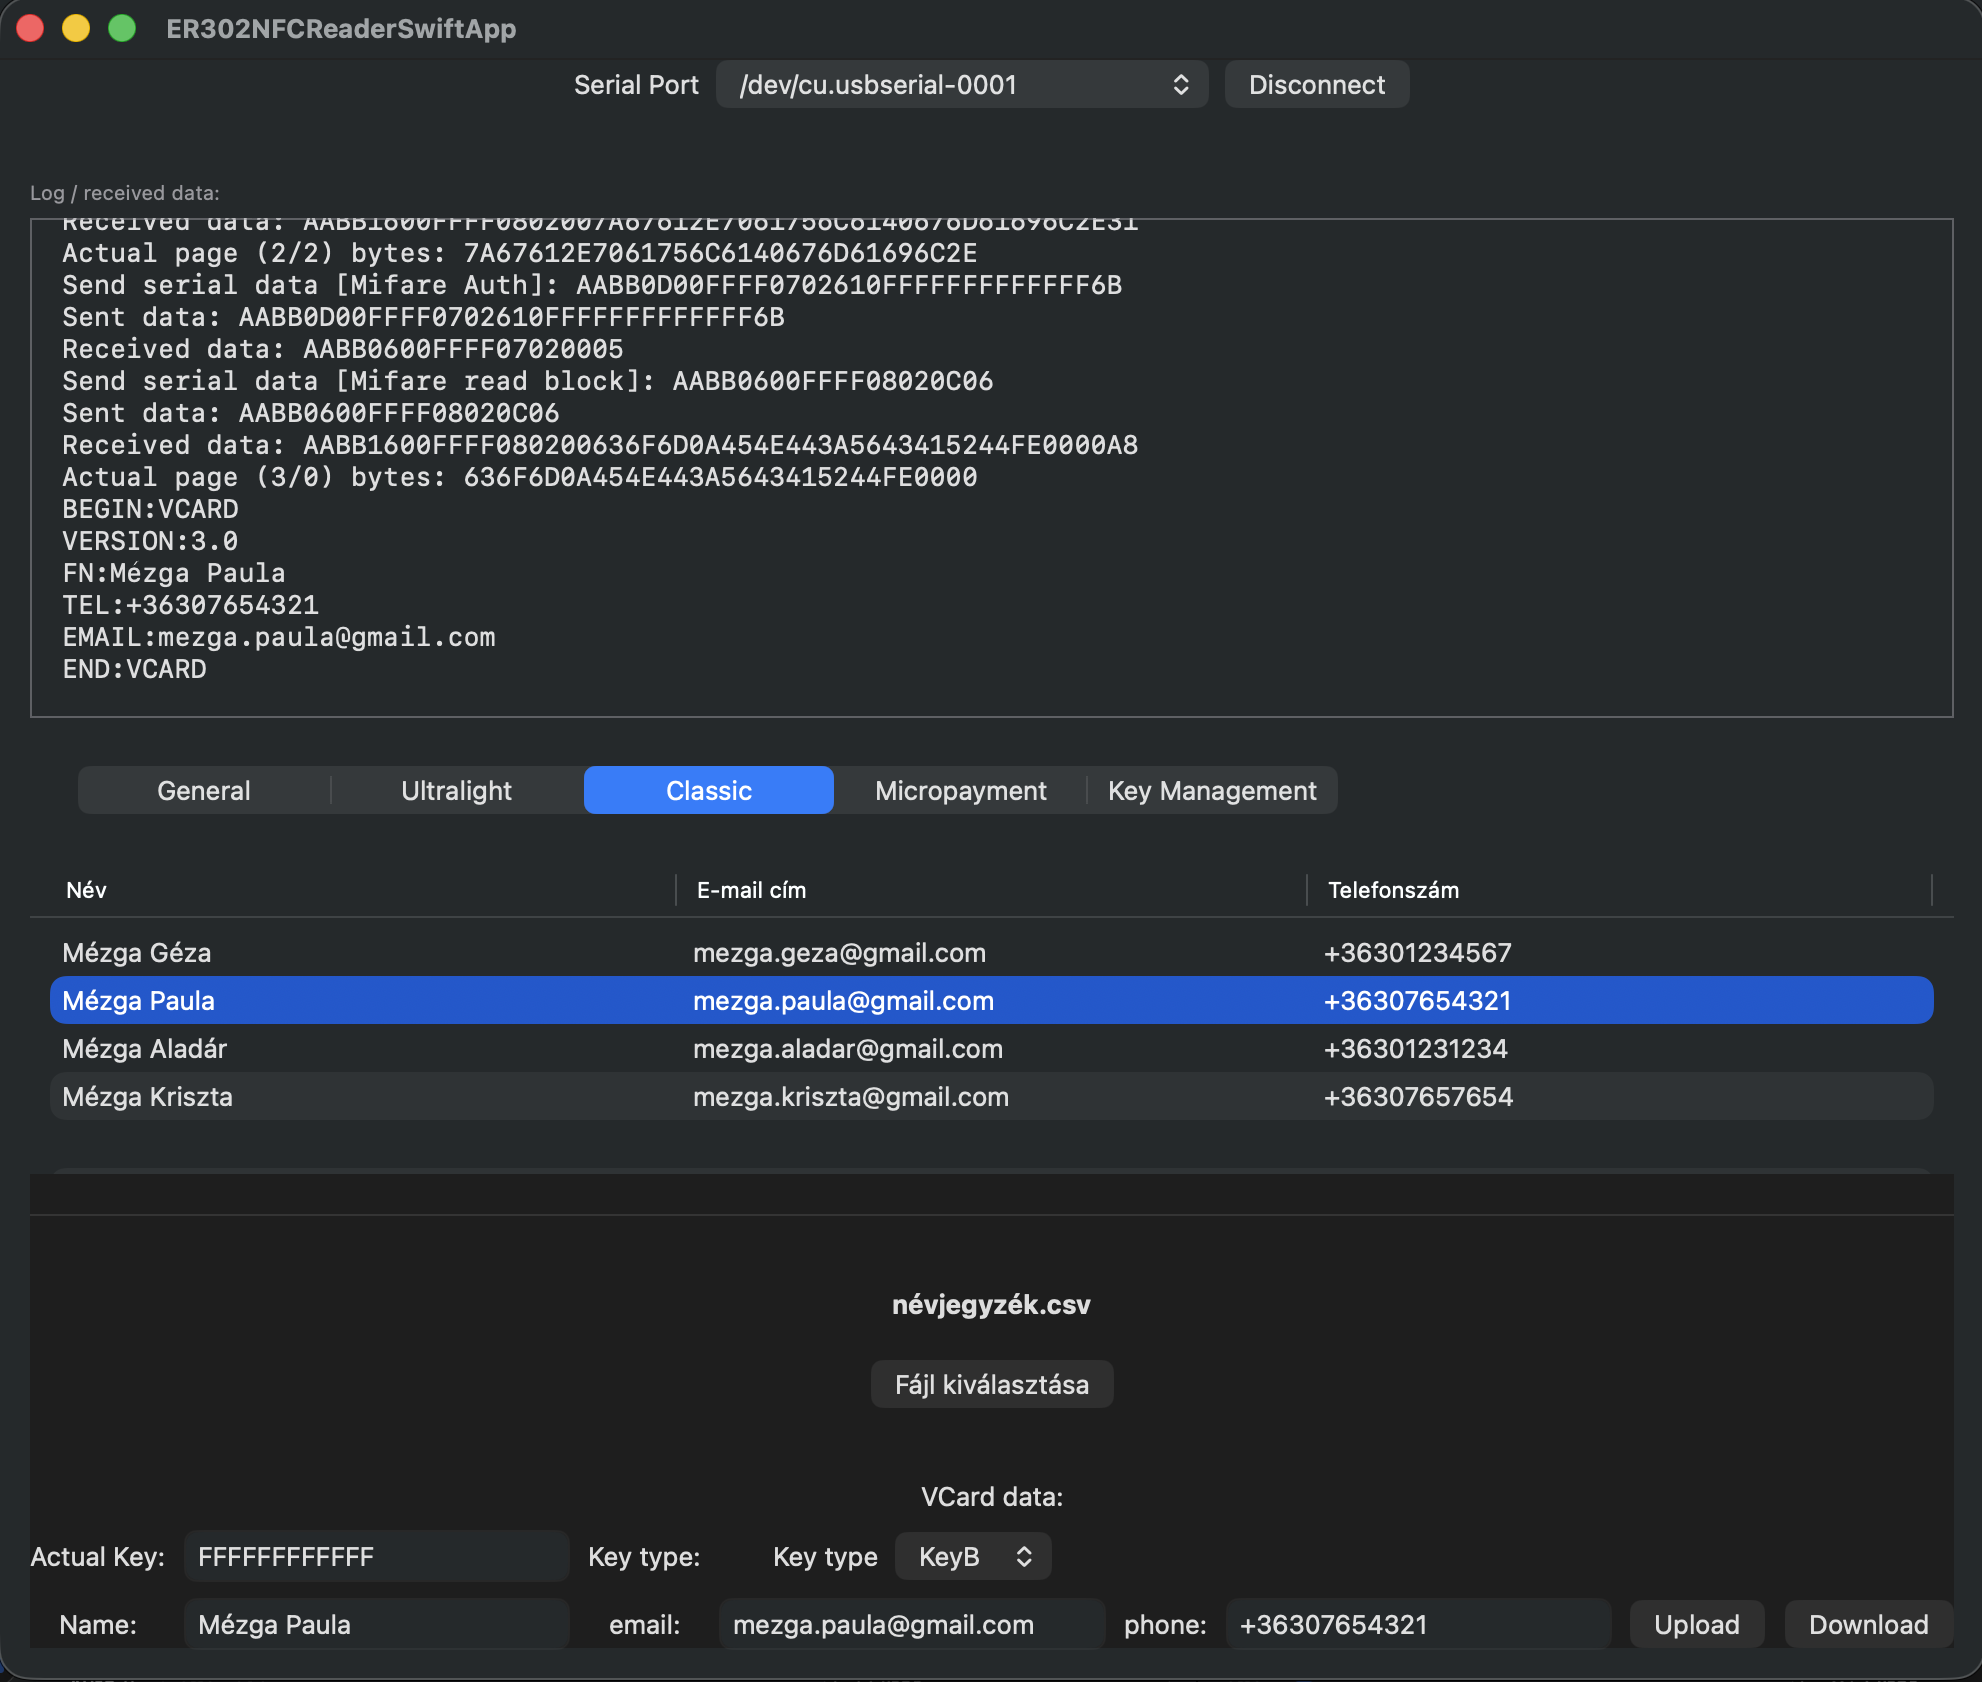
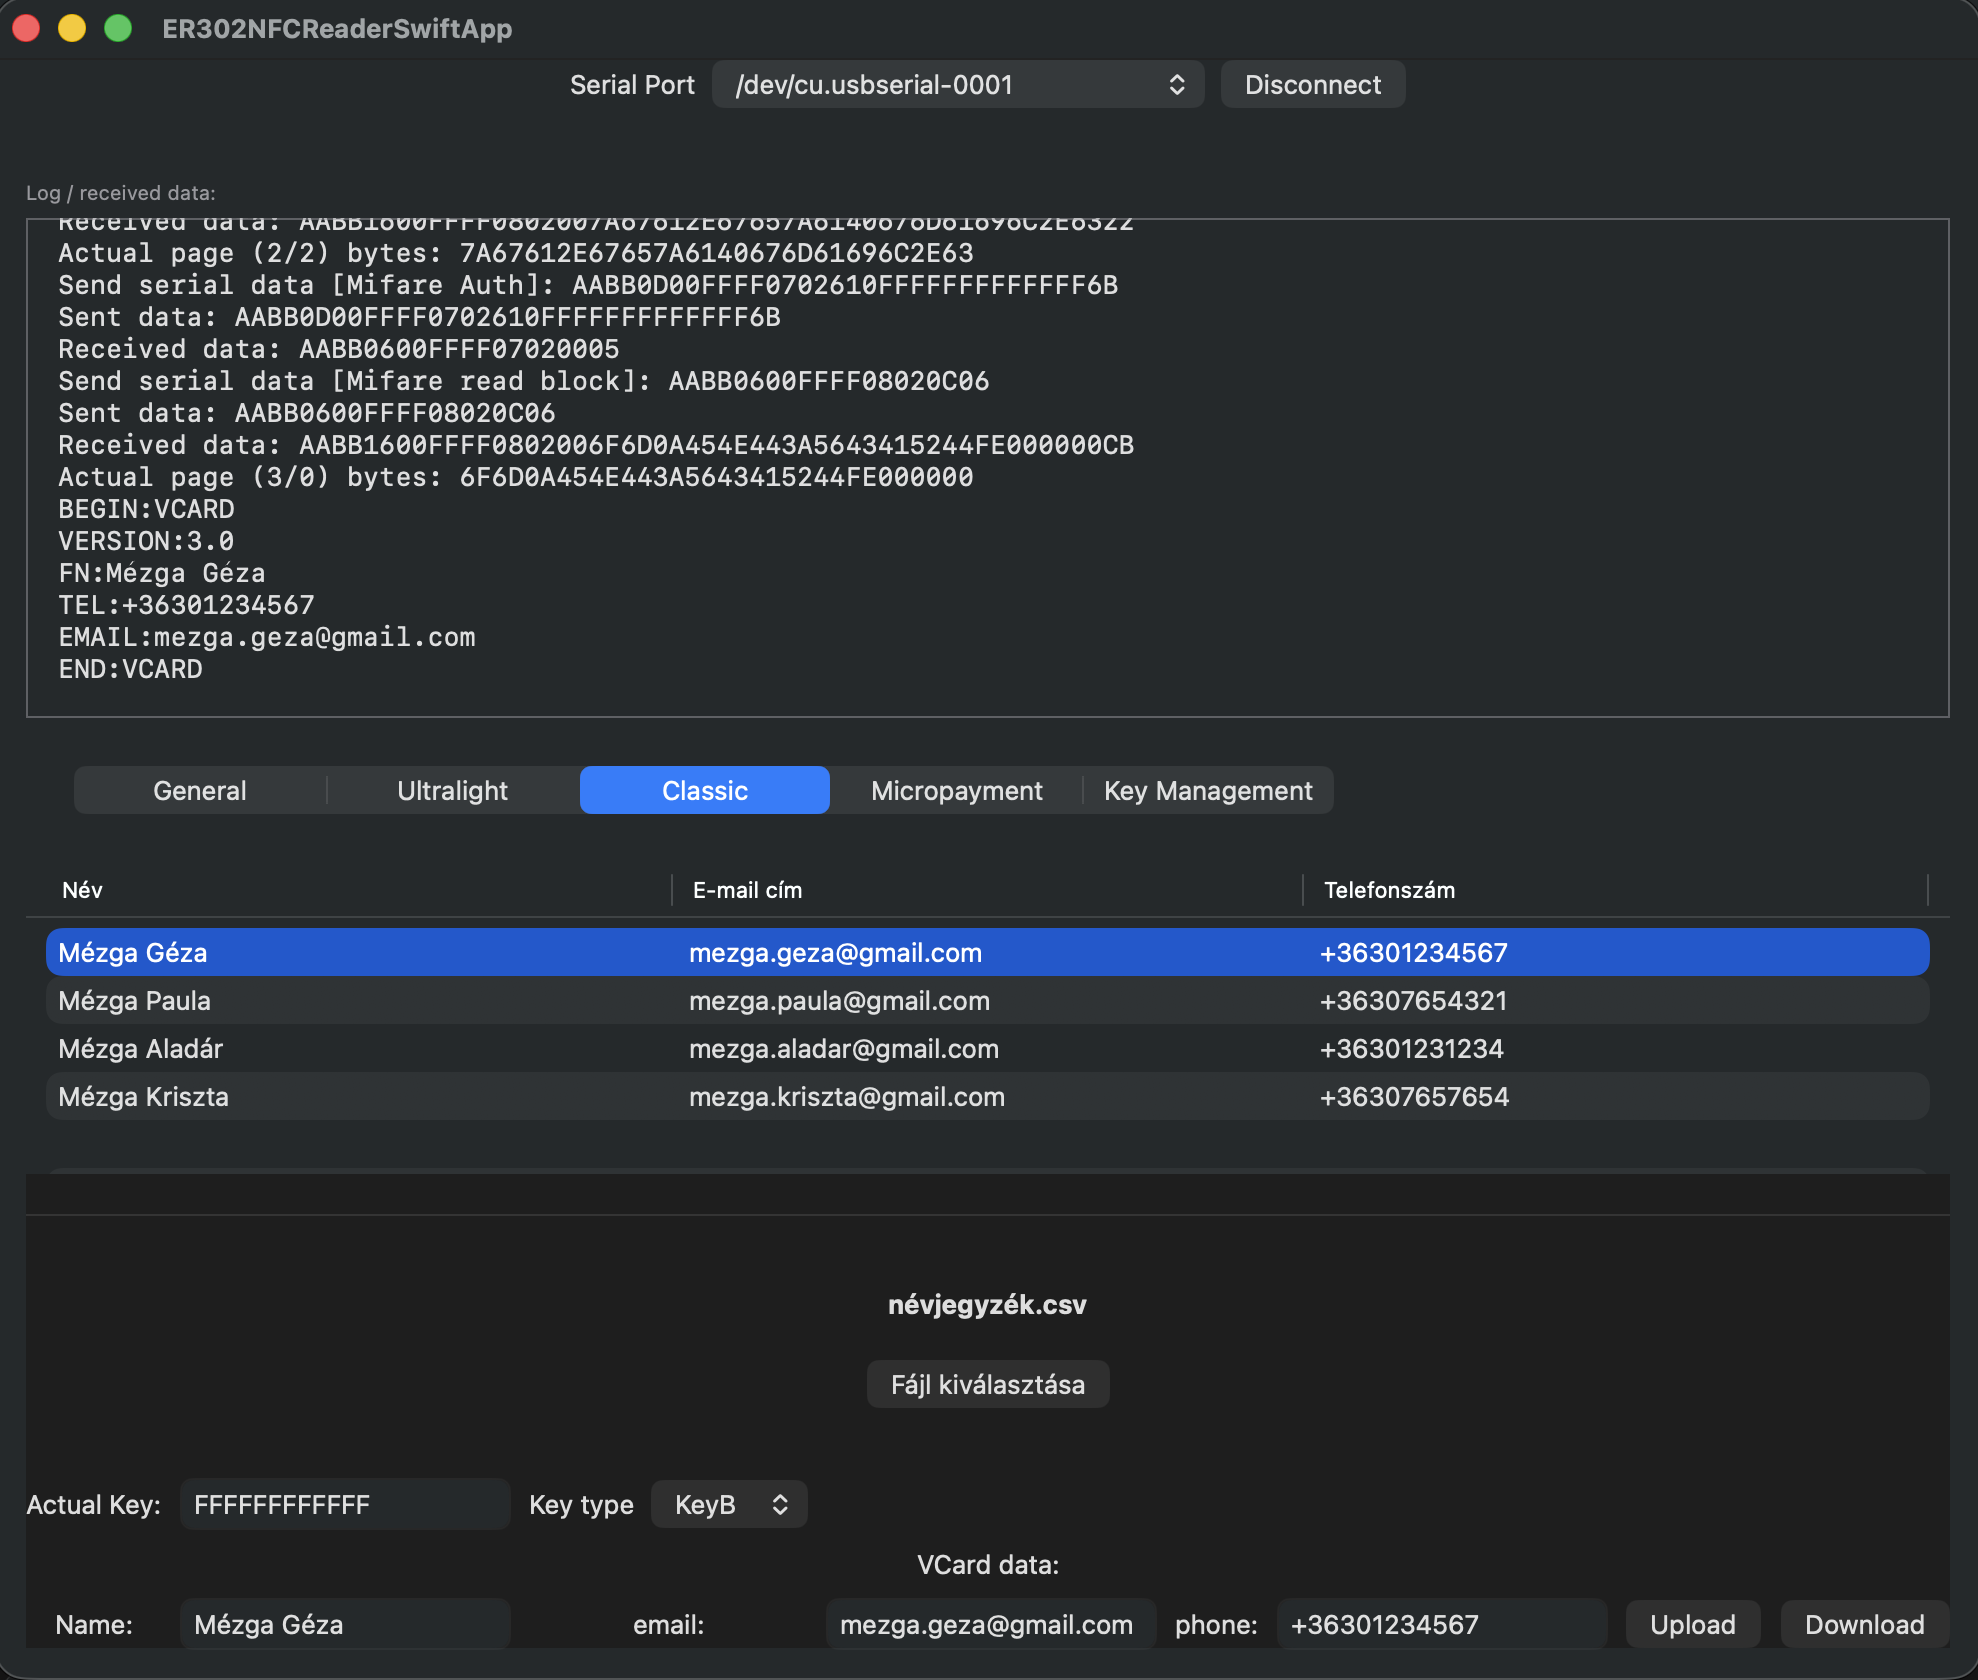
ContentView and image update

diff --git a/ER302NFCReaderSwiftApp/ContentView.swift b/ER302NFCReaderSwiftApp/ContentView.swift
@@ -357,17 +357,16 @@ struct ContentView: View {
                 }
             }
             Grid(alignment: .center, horizontalSpacing: 10, verticalSpacing: 10) {
-                Text("VCard data:")
                 GridRow {
                     Text("Actual Key:")
                     TextField("Key", text: $keyForClassic)
-                    Text("Key type:")
                     Picker(selection: $keyTypeForClassic, label: Text("Key type")) {
                         Text("KeyA").tag("KeyA")
                         Text("KeyB").tag("KeyB")
                     }
                 }
                 if let index = selectedPersonIndex {
+                    Text("VCard data:")
                     GridRow {
                         Text("Name:")
                         TextField("Name", text: $people[index].name)
